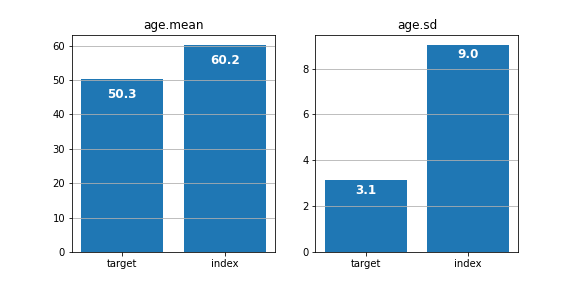
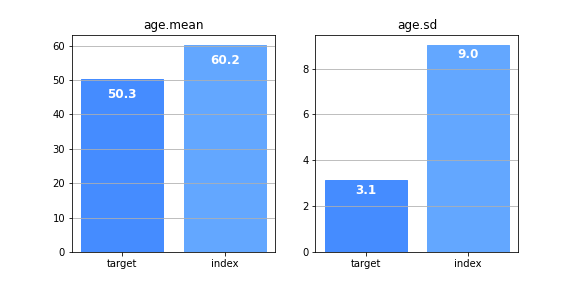
Create colour palette and apply to README

diff --git a/indcomp/_maic.py b/indcomp/_maic.py
@@ -14,6 +14,7 @@ import pandas as pd
 from scipy.optimize import minimize
 
 import indcomp.exceptions as e
+from indcomp._utils import get_colour_palette
 
 
 class MAIC:
@@ -56,6 +57,7 @@ class MAIC:
         self.df_target = df_target
         self.match = match
         self.weights_calculated = False
+        self._colours = get_colour_palette()
 
     def _check_match(
         self,
@@ -205,7 +207,9 @@ class MAIC:
                 else:
                     val_ind = self.df_index[self.match[var][1]].std()
             val_tar = self.df_target[var].values[0]
-            ax.bar([0, 1], [val_tar, val_ind])
+            bars = ax.bar([0, 1], [val_tar, val_ind])
+            bars[0].set_color(self._colours[0])  # colour for target trial
+            bars[1].set_color(self._colours[1])  # colours for index trial
             ax.grid(axis="y")
             ax.set_xticks([0, 1])
             ax.set_xticklabels(["target", "index"])
@@ -250,7 +254,7 @@ class MAIC:
 
         fig, ax = plt.subplots(figsize=(8, 4))
         fig.patch.set_facecolor("white")
-        ax.hist(self.weights_scaled_, bins=bins)
+        ax.hist(self.weights_scaled_, bins=bins, color=self._colours[0])
         ax.set_ylabel("count")
         ax.set_xlabel("weight (scaled)")
         ax.grid(axis="y")

diff --git a/indcomp/_utils.py b/indcomp/_utils.py
@@ -1,0 +1,14 @@
+"""Utility functions
+"""
+
+from typing import List
+
+
+def get_colour_palette() -> List[str]:
+    """Function for retrieving indcomp colour palette as a list of hexcodes
+
+    For comparison of 'target' (aggregate patient data) and 'index' (individual patient
+    data) trials, list index 0 should be used for the target trial and list index 1
+    should be used for the index trial
+    """
+    return ["#458CFF", "#63A7FF"]
